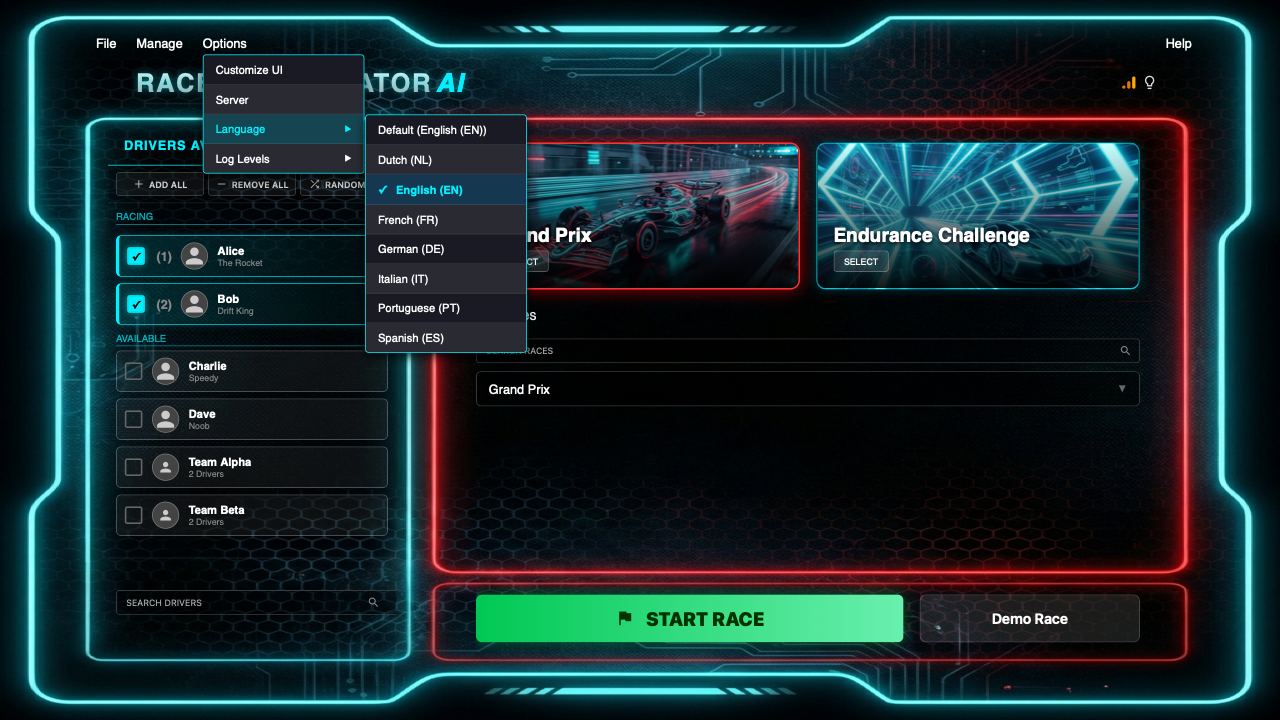
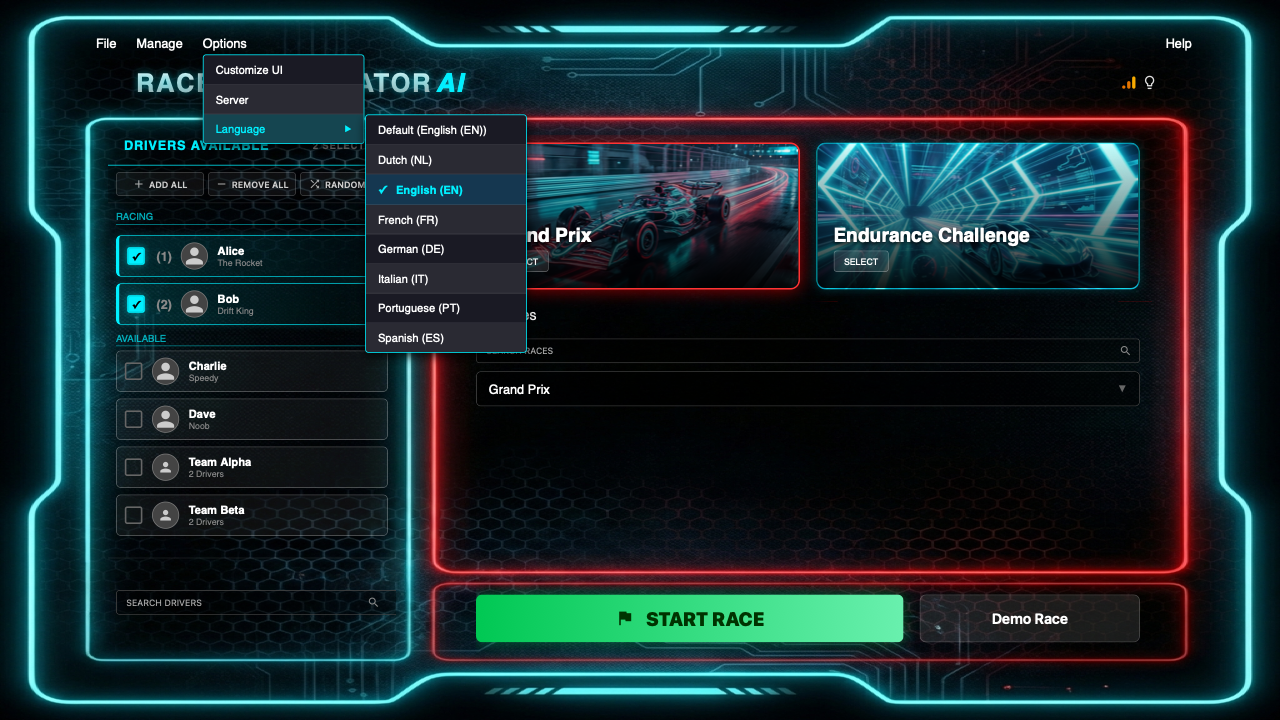
Moved the log levels under the help menu: https://github.com/daufderheide/racecoordinator_ai/issues/173

Changed region(s): [[0.1562, 0.1833, 0.2812, 0.2444]]

diff --git a/client/src/app/components/raceday-setup/default-raceday-setup.component.html b/client/src/app/components/raceday-setup/default-raceday-setup.component.html
@@ -100,12 +100,17 @@
                   </div>
                 }
               </div>
+            </div>
+          }
+          <!-- Help Dropdown -->
+          @if (item.label === "RDS_MENU_HELP" && isHelpDropdownOpen) {
+            <div class="menu-dropdown">
               <div
                 class="menu-dropdown-item has-submenu"
                 (click)="toggleLogDropdown($event)"
               >
                 {{ "RDS_MENU_LOG_LEVELS" | translate }}
-                <span class="submenu-arrow">▶</span>
+                <span class="submenu-arrow">◀</span>
                 @if (isLogDropdownOpen) {
                   <div class="menu-dropdown submenu">
                     <div
@@ -113,9 +118,9 @@
                       (click)="toggleClientLogDropdown($event)"
                     >
                       {{ "RDS_LOG_CLIENT" | translate }}
-                      <span class="submenu-arrow">▶</span>
+                      <span class="submenu-arrow">◀</span>
                       @if (isClientLogOpen) {
-                        <div class="menu-dropdown submenu right-side">
+                        <div class="menu-dropdown submenu">
                           @for (level of logLevels; track level) {
                             <div
                               class="menu-dropdown-item"
@@ -133,9 +138,9 @@
                       (click)="toggleServerLogDropdown($event)"
                     >
                       {{ "RDS_LOG_SERVER" | translate }}
-                      <span class="submenu-arrow">▶</span>
+                      <span class="submenu-arrow">◀</span>
                       @if (isServerLogOpen) {
-                        <div class="menu-dropdown submenu right-side">
+                        <div class="menu-dropdown submenu">
                           @for (level of logLevels; track level) {
                             <div
                               class="menu-dropdown-item"
@@ -151,11 +156,7 @@
                   </div>
                 }
               </div>
-            </div>
-          }
-          <!-- Help Dropdown -->
-          @if (item.label === "RDS_MENU_HELP" && isHelpDropdownOpen) {
-            <div class="menu-dropdown">
+              <hr class="menu-dropdown-divider" />
               <div class="menu-dropdown-item" (click)="openAbout()">
                 {{ "RDS_HEADER_ABOUT" | translate }}
               </div>

diff --git a/client/src/app/components/raceday-setup/default-raceday-setup.component.ts b/client/src/app/components/raceday-setup/default-raceday-setup.component.ts
@@ -782,17 +782,12 @@ export class DefaultRacedaySetupComponent implements OnInit {
   toggleLocalizationDropdown(event: Event) {
     event.stopPropagation();
     this.isLocalizationDropdownOpen = !this.isLocalizationDropdownOpen;
-    if (this.isLocalizationDropdownOpen) {
-      this.isLogDropdownOpen = false;
-    }
     this.cdr.detectChanges();
   }
   toggleLogDropdown(event: Event) {
     event.stopPropagation();
     this.isLogDropdownOpen = !this.isLogDropdownOpen;
-    if (this.isLogDropdownOpen) {
-      this.isLocalizationDropdownOpen = false;
-    } else {
+    if (!this.isLogDropdownOpen) {
       this.isClientLogOpen = false;
       this.isServerLogOpen = false;
     }
@@ -820,9 +815,6 @@ export class DefaultRacedaySetupComponent implements OnInit {
   closeOptionsDropdown() {
     this.isOptionsDropdownOpen = false;
     this.isLocalizationDropdownOpen = false;
-    this.isLogDropdownOpen = false;
-    this.isClientLogOpen = false;
-    this.isServerLogOpen = false;
   }
 
   selectLanguage(code: string) {
@@ -850,7 +842,7 @@ export class DefaultRacedaySetupComponent implements OnInit {
     this.settingsService.saveSettings(settings);
     this.currentClientLogLevel = level;
     this.logger.setLevel(level as any);
-    this.closeOptionsDropdown();
+    this.closeHelpDropdown();
   }
   setServerLogLevel(level: string) {
     const settings = this.settingsService.getSettings();
@@ -862,7 +854,7 @@ export class DefaultRacedaySetupComponent implements OnInit {
       next: () => this.logger.info(`Server log level set to ${level}`),
       error: (err) => this.logger.error("Failed to set server log level", err),
     });
-    this.closeOptionsDropdown();
+    this.closeHelpDropdown();
   }
 
   configureCustomUI() {
@@ -949,13 +941,18 @@ export class DefaultRacedaySetupComponent implements OnInit {
       this.isOptionsDropdownOpen = false;
       this.isDropdownOpen = false;
       this.isLocalizationDropdownOpen = false;
+      this.isHelpDropdownOpen = true;
+    } else {
+      this.closeHelpDropdown();
     }
-    this.isHelpDropdownOpen = newState;
     this.cdr.detectChanges();
   }
 
   closeHelpDropdown() {
     this.isHelpDropdownOpen = false;
+    this.isLogDropdownOpen = false;
+    this.isClientLogOpen = false;
+    this.isServerLogOpen = false;
   }
 
   openAbout() {

diff --git a/client/src/app/components/raceday-setup/default-raceday-setup.component.css b/client/src/app/components/raceday-setup/default-raceday-setup.component.css
@@ -84,6 +84,13 @@
   right: 0;
 }
 
+.help-menu-container .menu-dropdown.submenu {
+  left: auto;
+  right: 100%;
+  margin-left: 0;
+  margin-right: 2px;
+}
+
 .menu-dropdown-item {
   padding: 10px 15px;
   color: #fff;